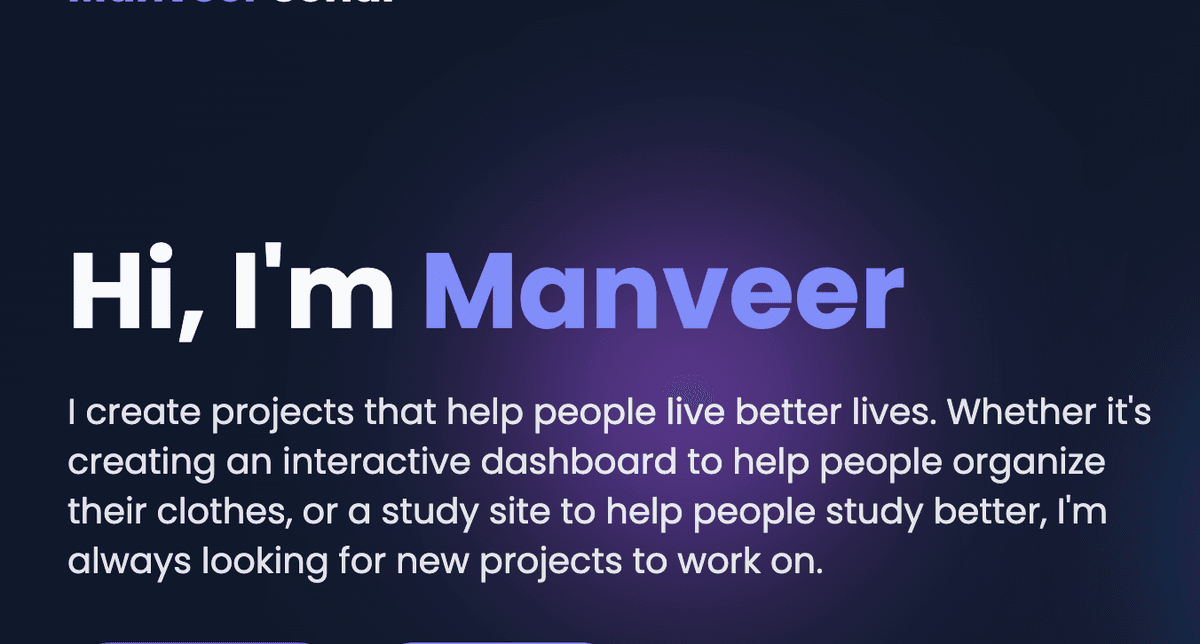
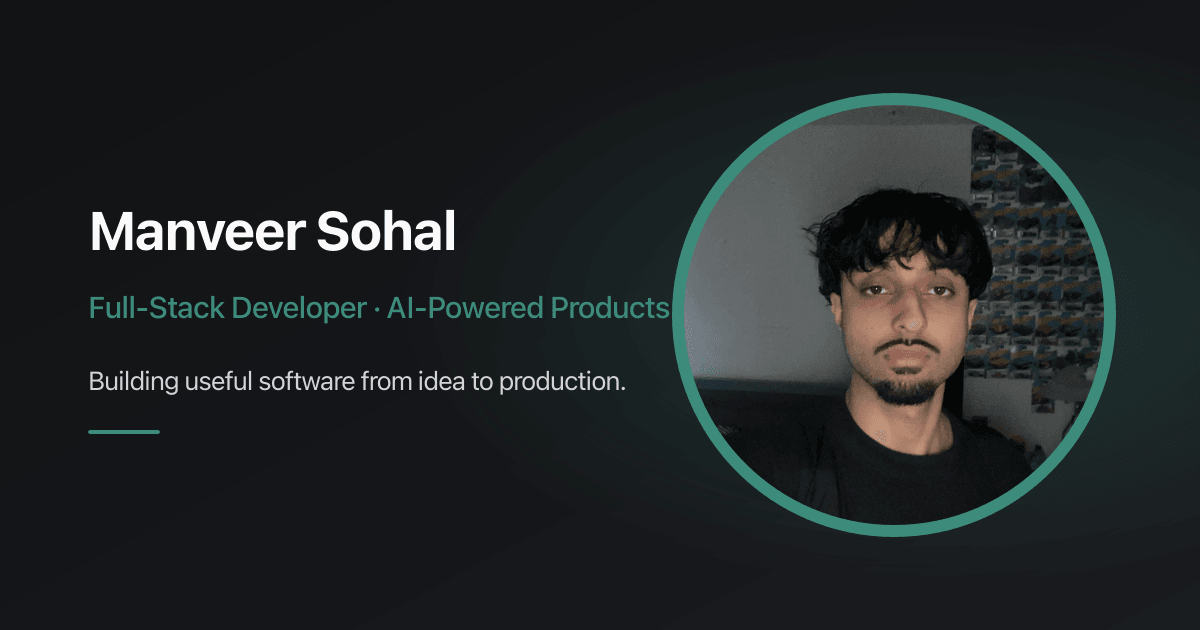
Updated to work better for mobile view + fixed metadata issue when sharing link causing image not to show

diff --git a/components/home/ContactRevealShell.tsx b/components/home/ContactRevealShell.tsx
@@ -10,6 +10,9 @@ type ContactRevealShellProps = {
 /**
  * Sticky/fixed footer-reveal: upper homepage content covers Contact + Footer,
  * then scrolls away to uncover them at the bottom of the page.
+ *
+ * Disabled on small screens and reduced-motion — the fixed layer is taller
+ * than a phone viewport, so the form intro/fields become unreachable.
  */
 export function ContactRevealShell({
   children,
@@ -18,19 +21,26 @@ export function ContactRevealShell({
   const contentRef = useRef<HTMLDivElement>(null);
   const revealRef = useRef<HTMLDivElement>(null);
   const [revealHeight, setRevealHeight] = useState(0);
-  const [reduceMotion, setReduceMotion] = useState(false);
+  const [staticReveal, setStaticReveal] = useState(true);
   const [uncovered, setUncovered] = useState(false);
 
   useEffect(() => {
-    const media = window.matchMedia("(prefers-reduced-motion: reduce)");
-    const sync = () => setReduceMotion(media.matches);
+    const motion = window.matchMedia("(prefers-reduced-motion: reduce)");
+    const desktop = window.matchMedia("(min-width: 900px)");
+    const sync = () => {
+      setStaticReveal(motion.matches || !desktop.matches);
+    };
     sync();
-    media.addEventListener("change", sync);
-    return () => media.removeEventListener("change", sync);
+    motion.addEventListener("change", sync);
+    desktop.addEventListener("change", sync);
+    return () => {
+      motion.removeEventListener("change", sync);
+      desktop.removeEventListener("change", sync);
+    };
   }, []);
 
   useEffect(() => {
-    if (reduceMotion) {
+    if (staticReveal) {
       setRevealHeight(0);
       setUncovered(true);
       return;
@@ -51,10 +61,10 @@ export function ContactRevealShell({
       observer.disconnect();
       window.removeEventListener("resize", measure);
     };
-  }, [reduceMotion, reveal]);
+  }, [staticReveal, reveal]);
 
   useEffect(() => {
-    if (reduceMotion) return;
+    if (staticReveal) return;
 
     const update = () => {
       const content = contentRef.current;
@@ -71,9 +81,9 @@ export function ContactRevealShell({
       window.removeEventListener("scroll", update);
       window.removeEventListener("resize", update);
     };
-  }, [reduceMotion, revealHeight]);
+  }, [staticReveal, revealHeight]);
 
-  if (reduceMotion) {
+  if (staticReveal) {
     return (
       <>
         {children}

diff --git a/app/globals.css b/app/globals.css
@@ -1252,9 +1252,21 @@ a {
   will-change: transform;
 }
 
-.featured-editorial__media-shell:hover {
-  z-index: 6;
-  transform: translate3d(0, -8px, 0) scale(1.025);
+@media (hover: hover) and (pointer: fine) {
+  .featured-editorial__media-shell:hover {
+    z-index: 6;
+    transform: translate3d(0, -8px, 0) scale(1.025);
+  }
+
+  .featured-editorial__media-shell:hover .featured-editorial__media {
+    box-shadow:
+      0 18px 40px rgba(0, 0, 0, 0.32),
+      0 1px 0 rgba(255, 255, 255, 0.05);
+  }
+
+  .featured-rail__item:has(.featured-editorial__media-shell:hover) > .reveal {
+    z-index: 6;
+  }
 }
 
 .featured-card-glow {
@@ -1475,10 +1487,6 @@ a {
   z-index: 5;
 }
 
-.featured-rail__item:has(.featured-editorial__media-shell:hover) > .reveal {
-  z-index: 6;
-}
-
 @media (min-width: 768px) {
   .featured-rail__item {
     margin-bottom: 0.75rem;
@@ -1676,12 +1684,6 @@ a {
   background: var(--surface-elevated);
   box-shadow: 0 1px 0 rgba(255, 255, 255, 0.04);
   transition: box-shadow 360ms ease;
-}
-
-.featured-editorial__media-shell:hover .featured-editorial__media {
-  box-shadow:
-    0 18px 40px rgba(0, 0, 0, 0.32),
-    0 1px 0 rgba(255, 255, 255, 0.05);
 }
 
 .featured-editorial__media-hit {
@@ -2269,6 +2271,17 @@ a {
   box-sizing: border-box;
 }
 
+@media (max-width: 899px) {
+  .contact-form-section__inner {
+    max-width: none;
+    gap: 1.5rem;
+  }
+
+  .contact-form-section__support {
+    max-width: none;
+  }
+}
+
 @media (min-width: 768px) {
   .contact-form-section__inner {
     padding-inline: 2rem;
@@ -2458,6 +2471,14 @@ a {
   .contact-banner {
     border-bottom-left-radius: 1.5rem;
     border-bottom-right-radius: 1.5rem;
+    box-shadow: none;
+  }
+}
+
+@media (max-width: 899px) {
+  .contact-banner {
+    border-bottom-left-radius: 1.75rem;
+    border-bottom-right-radius: 1.75rem;
     box-shadow: none;
   }
 }

diff --git a/components/home/Hero.tsx b/components/home/Hero.tsx
@@ -21,7 +21,7 @@ export function Hero() {
               Almaari and JobLinx and have worked across generative AI, data
               systems, and computer vision.
             </p>
-            <div className="mt-7 flex flex-wrap items-center justify-center gap-3 md:justify-start">
+            <div className="mt-7 flex flex-col items-stretch justify-center gap-3 min-[400px]:flex-row min-[400px]:flex-wrap min-[400px]:items-center md:justify-start">
               <Button href="/projects">View Projects</Button>
               <Button href="/contact" variant="secondary">
                 Contact Me
@@ -29,7 +29,7 @@ export function Hero() {
               <ExternalLink
                 href={siteConfig.links.linkedin}
                 aria-label={`${siteConfig.name} on LinkedIn`}
-                className="text-base"
+                className="justify-center text-base min-[400px]:justify-start"
               >
                 LinkedIn
               </ExternalLink>

diff --git a/app/layout.tsx b/app/layout.tsx
@@ -38,7 +38,7 @@ export const metadata: Metadata = {
         url: "/images/meta-image.png",
         width: 1200,
         height: 630,
-        alt: `${siteConfig.name} portfolio preview`,
+        alt: `${siteConfig.name} — Full-Stack Developer`,
       },
     ],
   },
